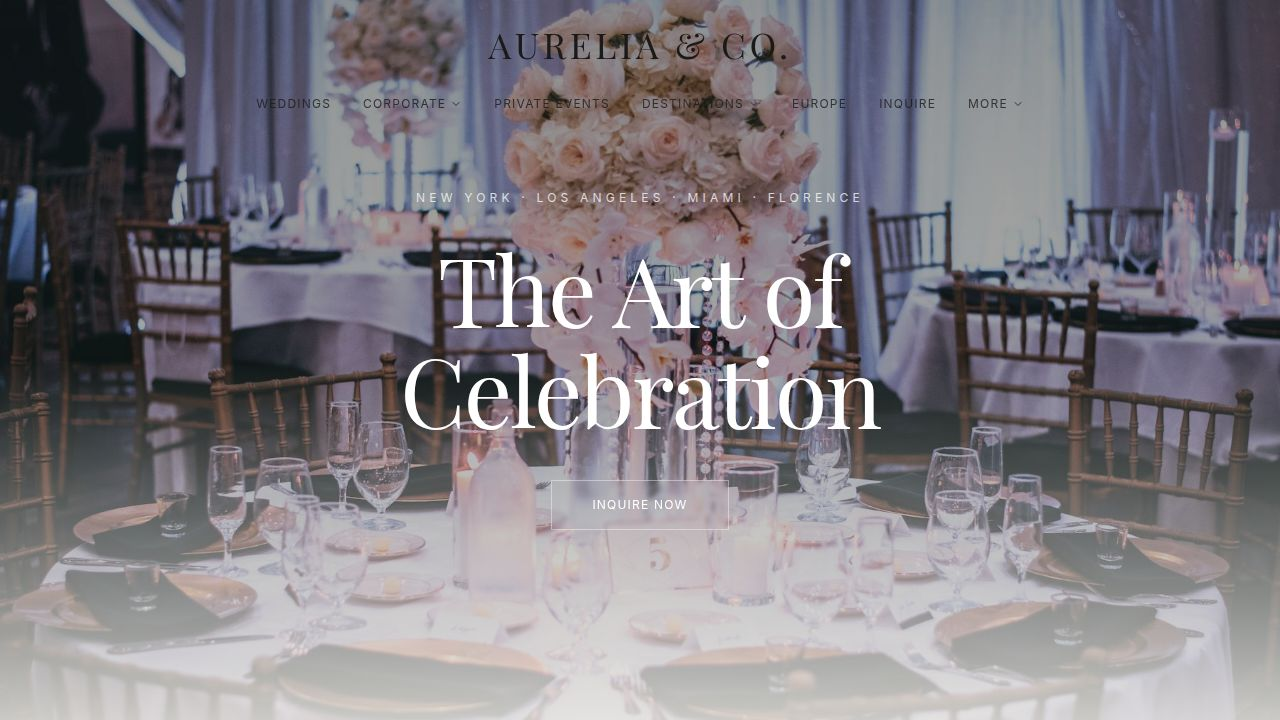
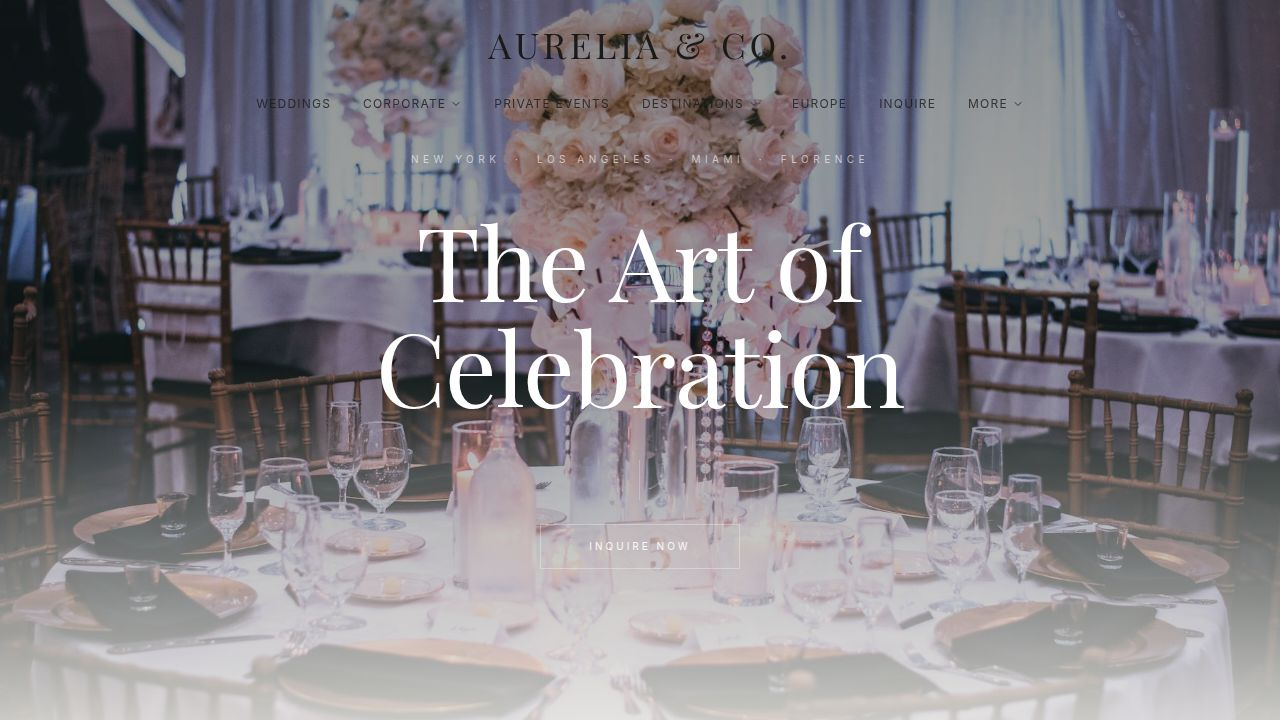
Add security headers and input validation to the application
Installs helmet middleware, enhances input validation with Zod and safe URL checks, sanitizes CSS values in charts, and implements global error handling and body size limits on the API server.

Replit-Commit-Author: Agent
Replit-Commit-Session-Id: bce90226-ecaf-4986-bff6-5c16a067ef1b
Replit-Commit-Checkpoint-Type: full_checkpoint
Replit-Commit-Event-Id: be86791d-60dc-458c-89ec-1e823335959d
Replit-Commit-Screenshot-Url: https://storage.googleapis.com/screenshot-production-us-central1/db597eba-ab00-474f-930b-3359d5227a49/bce90226-ecaf-4986-bff6-5c16a067ef1b/ynpYjXn
Replit-Helium-Checkpoint-Created: true

diff --git a/artifacts/api-server/src/routes/inquiries.ts b/artifacts/api-server/src/routes/inquiries.ts
@@ -8,30 +8,27 @@ import { sendTelegramMessage, formatNotification } from "../lib/telegram";
 const router: IRouter = Router();
 
 const inquiryBodySchema = insertInquirySchema.extend({
-  email: z.string().email(),
-  guests: z.coerce.number().int().min(1),
+  email: z.string().email().max(255),
+  guests: z.coerce.number().int().min(1).max(10000),
   firstName: z.string().min(1).max(120),
   lastName: z.string().min(1).max(120),
   phone: z.string().min(3).max(64),
-  service: z.string().min(1),
-  eventDate: z.string().min(1),
+  service: z.string().min(1).max(120),
+  eventDate: z.string().min(1).max(80),
   destinationEvent: z.enum(["yes", "no"]),
   destinationServices: z.enum(["yes", "no"]),
-  occasion: z.string().min(1),
-  office: z.string().min(1),
-  location: z.string().min(1),
-  venue: z.string().optional().nullable(),
+  occasion: z.string().min(1).max(120),
+  office: z.string().min(1).max(120),
+  location: z.string().min(1).max(255),
+  venue: z.string().max(255).optional().nullable(),
   additional: z.string().max(5000).optional().nullable(),
-  hearAboutUs: z.string().optional().nullable(),
+  hearAboutUs: z.string().max(255).optional().nullable(),
 });
 
 router.post("/inquiries", async (req, res) => {
   const parsed = inquiryBodySchema.safeParse(req.body);
   if (!parsed.success) {
-    return res.status(400).json({
-      error: "Invalid submission",
-      issues: parsed.error.issues,
-    });
+    return res.status(400).json({ error: "Invalid submission" });
   }
 
   const data = parsed.data;
@@ -47,7 +44,6 @@ router.post("/inquiries", async (req, res) => {
       })
       .returning({ id: inquiriesTable.id });
 
-    // Fire-and-forget Telegram notification
     const message = formatNotification("New Inquiry — Aurelia & Co.", [
       { label: "Name", value: `${data.firstName} ${data.lastName}` },
       { label: "Email", value: data.email },
@@ -57,14 +53,8 @@ router.post("/inquiries", async (req, res) => {
       { label: "Event Date", value: data.eventDate },
       { label: "Guests", value: data.guests },
       { label: "Location", value: data.location },
-      {
-        label: "Destination Event",
-        value: data.destinationEvent === "yes" ? "Yes" : "No",
-      },
-      {
-        label: "Destination Services",
-        value: data.destinationServices === "yes" ? "Yes" : "No",
-      },
+      { label: "Destination Event", value: data.destinationEvent === "yes" ? "Yes" : "No" },
+      { label: "Destination Services", value: data.destinationServices === "yes" ? "Yes" : "No" },
       { label: "Preferred Office", value: data.office },
       { label: "Featured Venue", value: data.venue || null },
       { label: "Heard About Us", value: data.hearAboutUs || null },
@@ -82,27 +72,31 @@ router.post("/inquiries", async (req, res) => {
   }
 });
 
-// Admin: list inquiries (protected by ADMIN_TOKEN query/header)
 router.get("/inquiries", async (req, res) => {
   const adminToken = process.env["ADMIN_TOKEN"];
   if (!adminToken) {
-    return res
-      .status(503)
-      .json({ error: "Admin disabled. Set ADMIN_TOKEN secret to enable." });
+    return res.status(503).json({ error: "Admin disabled. Set ADMIN_TOKEN secret to enable." });
   }
+
   const provided =
     req.header("x-admin-token") ||
     (typeof req.query["token"] === "string" ? req.query["token"] : "");
+
   if (provided !== adminToken) {
     return res.status(401).json({ error: "Unauthorized" });
   }
 
-  const rows = await db
-    .select()
-    .from(inquiriesTable)
-    .orderBy(desc(inquiriesTable.createdAt))
-    .limit(200);
-  return res.json({ inquiries: rows });
+  try {
+    const rows = await db
+      .select()
+      .from(inquiriesTable)
+      .orderBy(desc(inquiriesTable.createdAt))
+      .limit(200);
+    return res.json({ inquiries: rows });
+  } catch (err) {
+    logger.error({ err }, "Failed to fetch inquiries");
+    return res.status(500).json({ error: "Could not retrieve inquiries" });
+  }
 });
 
 export default router;

diff --git a/artifacts/api-server/src/routes/vendors.ts b/artifacts/api-server/src/routes/vendors.ts
@@ -6,28 +6,42 @@ import { sendTelegramMessage, formatNotification } from "../lib/telegram";
 
 const router: IRouter = Router();
 
+const safeUrl = z
+  .string()
+  .max(500)
+  .refine(
+    (val) => {
+      try {
+        const u = new URL(val);
+        return u.protocol === "https:" || u.protocol === "http:";
+      } catch {
+        return false;
+      }
+    },
+    { message: "Must be a valid URL (http or https)" },
+  )
+  .optional()
+  .nullable();
+
 const vendorBodySchema = z.object({
   businessName: z.string().min(1).max(180),
   contactName: z.string().min(1).max(180),
   email: z.string().email().max(255),
   phone: z.string().max(64).optional().nullable(),
-  website: z.string().max(255).optional().nullable(),
+  website: safeUrl,
   instagram: z.string().max(120).optional().nullable(),
   category: z.string().min(1).max(80),
   regions: z.string().min(1).max(255),
   yearsActive: z.string().max(40).optional().nullable(),
   bio: z.string().min(20).max(3000),
-  portfolioUrl: z.string().max(500).optional().nullable(),
+  portfolioUrl: safeUrl,
   hearAboutUs: z.string().max(255).optional().nullable(),
 });
 
 router.post("/vendor-applications", async (req, res) => {
   const parsed = vendorBodySchema.safeParse(req.body);
   if (!parsed.success) {
-    return res.status(400).json({
-      error: "Invalid submission",
-      issues: parsed.error.issues,
-    });
+    return res.status(400).json({ error: "Invalid submission" });
   }
 
   const data = parsed.data;

diff --git a/artifacts/api-server/src/app.ts b/artifacts/api-server/src/app.ts
@@ -1,5 +1,6 @@
-import express, { type Express } from "express";
+import express, { type Express, type Request, type Response, type NextFunction } from "express";
 import cors from "cors";
+import helmet from "helmet";
 import pinoHttp from "pino-http";
 import router from "./routes";
 import { logger } from "./lib/logger";
@@ -25,10 +26,27 @@ app.use(
     },
   }),
 );
+
+app.use(
+  helmet({
+    contentSecurityPolicy: false,
+  }),
+);
+
 app.use(cors());
-app.use(express.json());
-app.use(express.urlencoded({ extended: true }));
+
+app.use(express.json({ limit: "64kb" }));
+app.use(express.urlencoded({ extended: true, limit: "64kb" }));
 
 app.use("/api", router);
+
+app.use((_req: Request, res: Response) => {
+  res.status(404).json({ error: "Not found" });
+});
+
+app.use((err: unknown, _req: Request, res: Response, _next: NextFunction) => {
+  logger.error({ err }, "Unhandled error");
+  res.status(500).json({ error: "Internal server error" });
+});
 
 export default app;

diff --git a/artifacts/aurelia/src/components/ui/chart.tsx b/artifacts/aurelia/src/components/ui/chart.tsx
@@ -65,6 +65,15 @@ const ChartContainer = React.forwardRef<
 })
 ChartContainer.displayName = "Chart"
 
+// Strips any characters that could break out of a CSS <style> block
+function sanitizeCssValue(value: string): string {
+  return value.replace(/[<>"'\\]/g, "")
+}
+
+function sanitizeCssKey(key: string): string {
+  return key.replace(/[^a-zA-Z0-9_-]/g, "")
+}
+
 const ChartStyle = ({ id, config }: { id: string; config: ChartConfig }) => {
   const colorConfig = Object.entries(config).filter(
     ([, config]) => config.theme || config.color
@@ -80,13 +89,15 @@ const ChartStyle = ({ id, config }: { id: string; config: ChartConfig }) => {
         __html: Object.entries(THEMES)
           .map(
             ([theme, prefix]) => `
-${prefix} [data-chart=${id}] {
+${prefix} [data-chart=${sanitizeCssValue(id)}] {
 ${colorConfig
   .map(([key, itemConfig]) => {
     const color =
       itemConfig.theme?.[theme as keyof typeof itemConfig.theme] ||
       itemConfig.color
-    return color ? `  --color-${key}: ${color};` : null
+    return color
+      ? `  --color-${sanitizeCssKey(key)}: ${sanitizeCssValue(color)};`
+      : null
   })
   .join("\n")}
 }